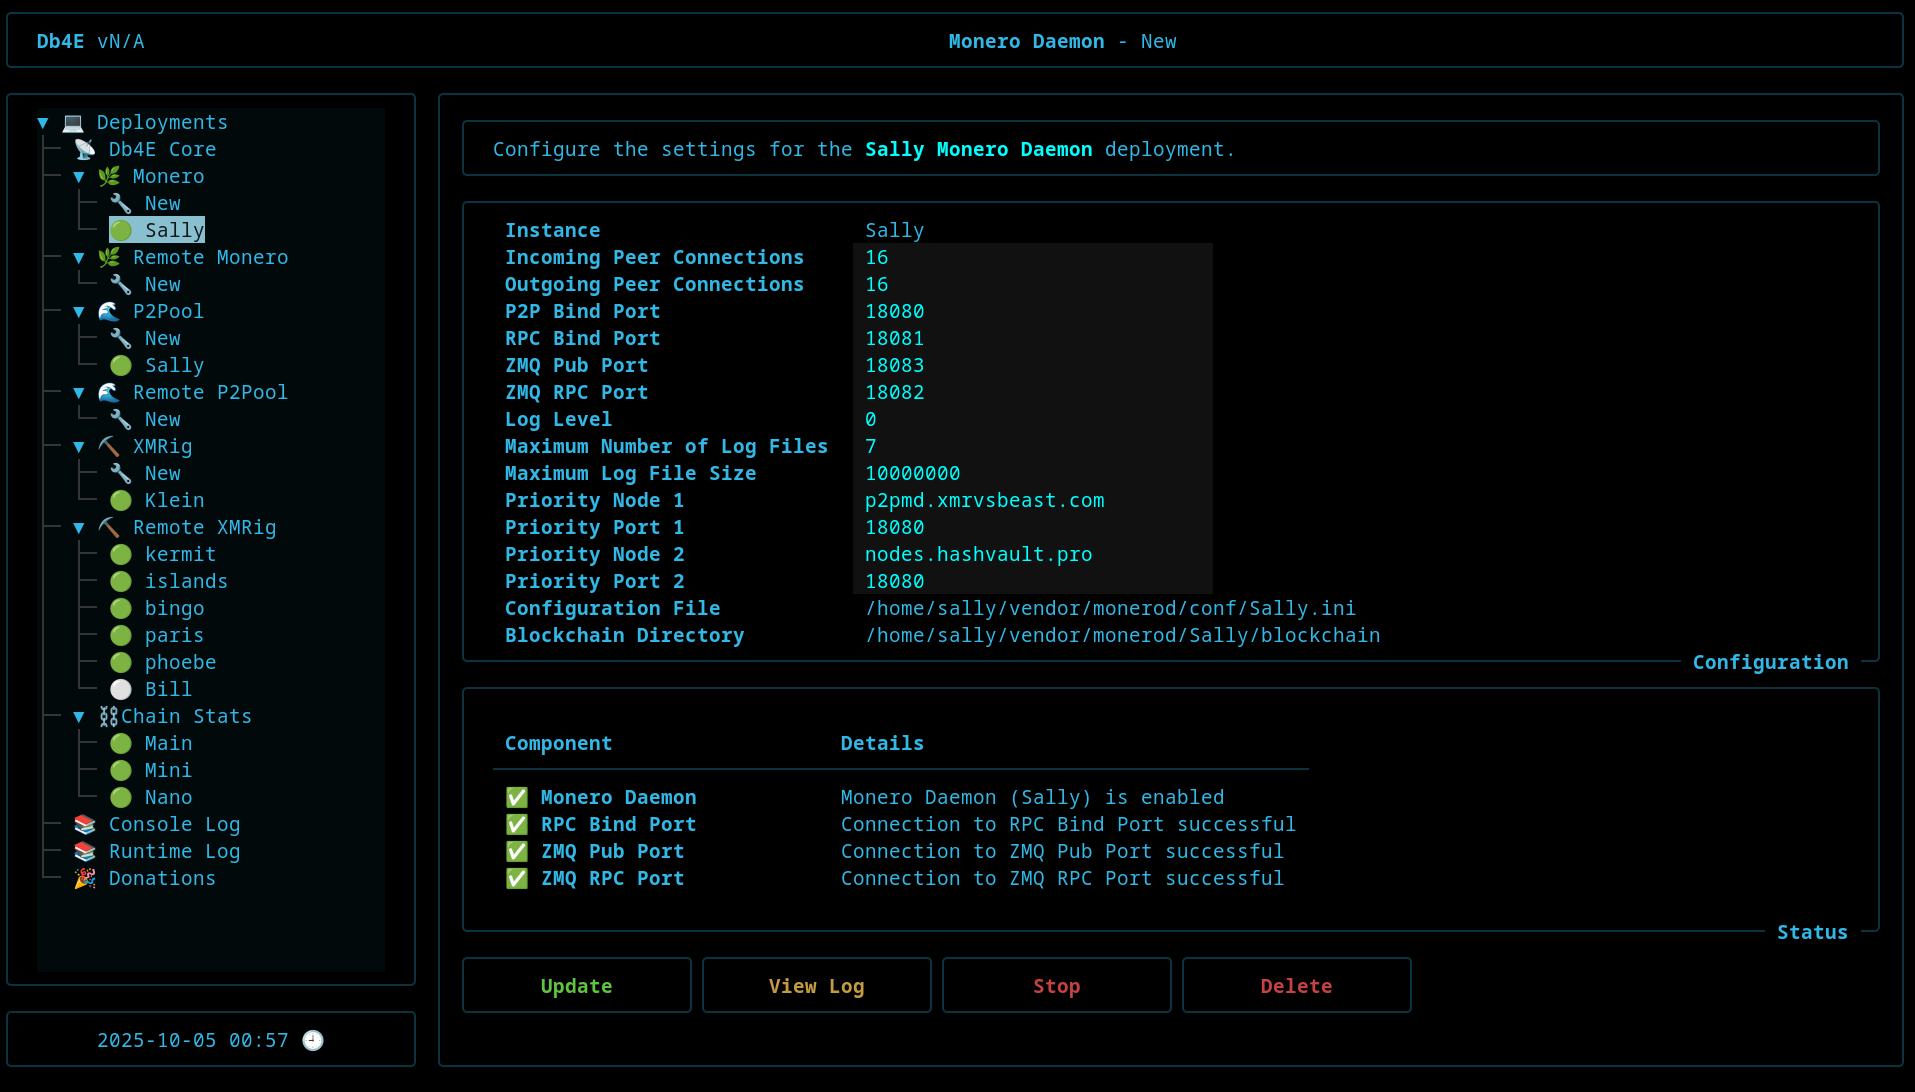
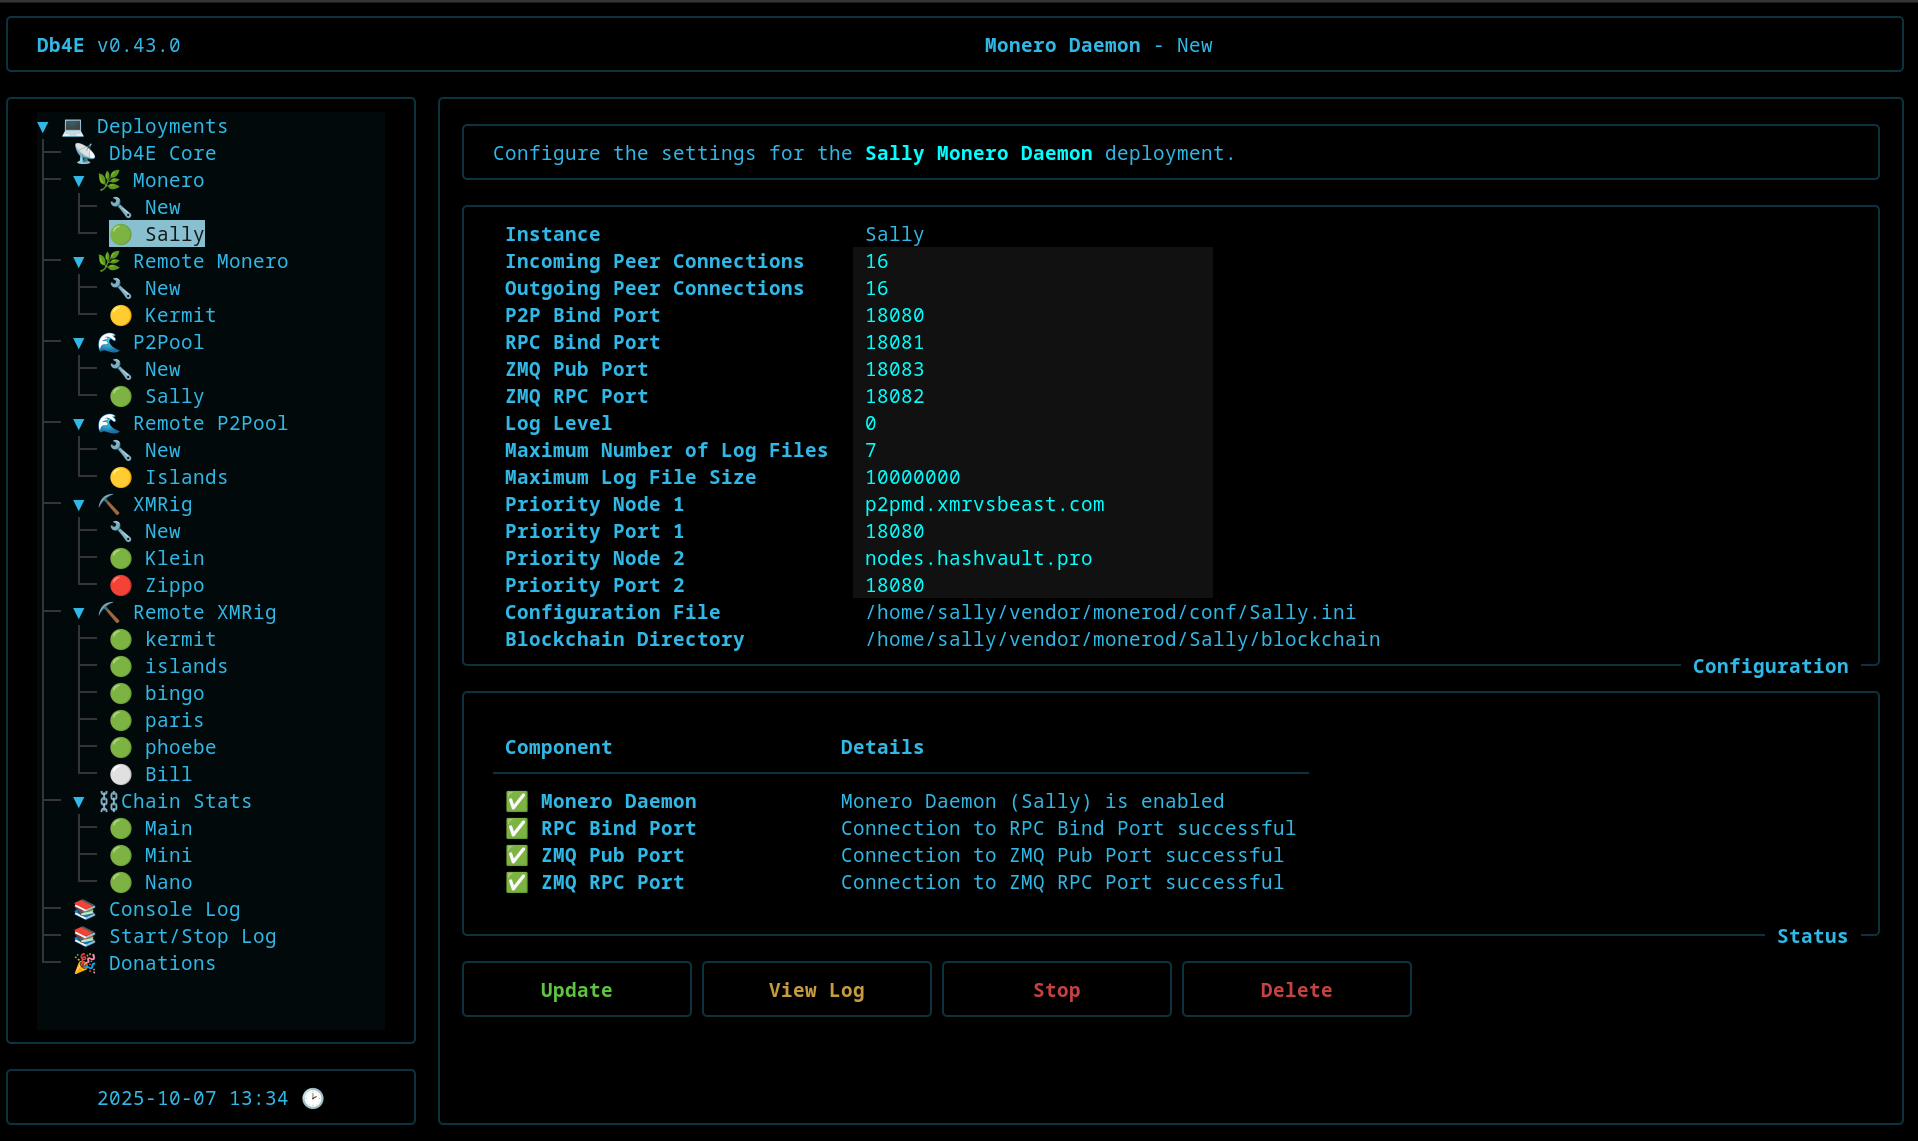
Added: Screenshots

diff --git a/db4e/server.py b/db4e/server.py
@@ -607,9 +607,10 @@ class Db4eServer:
 
                 for elem_type, instance in depls:
                     if depls[(elem_type, instance)]:
-                        sd = self.systemd
-                        sd.service_name(elem_type + '@' + instance)
-                        sd.restart()
+                        # Create a restart job
+                        job = Job(op=DJob.RESTART, elem_type=elem_type, instance=instance)
+                        self.job_queue.post_job(job)
+
 
             except Exception as e:
                 self.log.error(f"rotate_logs(): {e} {stderr}")
@@ -739,6 +740,12 @@ class Db4eServer:
                 msgs += val[DField.MESSAGE] + "\n"
         job.msg(msgs[:-1])
         self.job_queue.complete_job(job)
+
+        # Restart Monerod and P2Pool deployments if their config has been updated
+        if type(elem) == MoneroD or type(elem) == P2Pool:
+            # Create a restart job 
+            job = Job(op=DJob.RESTART, elem_type=elem.elem_type(), instance=elem.instance())
+            self.job_queue.post_job(job)
 
 
     def unset_int_p2pool_primary(self):

diff --git a/pages/db4e-tui.py.md b/pages/db4e-tui.py.md
@@ -30,7 +30,23 @@ The UI is tightly integrated with the underlying service and MongoDB backend to 
 
 ![Screenshot of Db4E installer](/images/db4e-tui-installer.png)
 
-![P2Pool Configuration](/images/p2pool-config.png)
+![Monero Configuration](/images/monerod-config.png)
+
+![Monero Remote Configuration](/images/monerod-remote-config.png)
+
+![P2Pool Config](/images/local-p2pool-config.png)
+
+![P2Pool Remote Configuration](/images/p2pool-remote-config.png)
+
+![XMRig Configuration](/images/xmrig-config.png)
+
+![Monero Daemon Logs](/images/monerod-logs.png)
+
+![P2Pool Logs](/images/p2pool-logs.png)
+
+![XMRig Logs](/images/xmrig-logs.png)
+
+![Console Log](/images/console-log.png)
 
 ![Miner Analytics](/images/miner-analytics.png)
 
@@ -38,18 +54,11 @@ The UI is tightly integrated with the underlying service and MongoDB backend to 
 
 ![Runtime Log](/images/runtime-log.png)
 
-![XMRig Configuration](/images/xmrig-config.png)
+![Start / Stop Log](/images/start-stop-log.png)
 
-![Monero Configuration](/images/monero-config.png)
+![Runtime Log](/images/runtime-log.png)
 
-![Cumulative Uptime Report](/images/cumulative-uptime.png)
+![P2Pool Hashrate](/images/p2pool-hashrate.png)
 
-![Monero Config](/images/monerod-config.png)
-
-![P2Pool Config](/images/local-p2pool-config.png)
-
-![XMRig Config](/images/xmrig-config.png)
-
-![Blocks Found](/images/blocks-found.png)
-
+![P2Pool Shares Found](/images/p2pool-shares-found.png)
 

diff --git a/CHANGELOG.md b/CHANGELOG.md
@@ -7,6 +7,17 @@ and this project adheres to [Semantic Versioning](https://semver.org/spec/v2.0.0
 
 ---
 
+## [Unreleased] - 2025-10-07
+
+### Added 
+- Additional website screenshots
+
+### Fixed
+- In `DeplMgr:get_deployment()`, check that a *P2Pool* instance is local before trying to reference it's parent.
+- In `DeplClient:add_deployument()`, do not add a new deployment if there are missing fields.
+
+---
+
 ## [0.45.0] - 2025-10-07 
 
 ### Added
